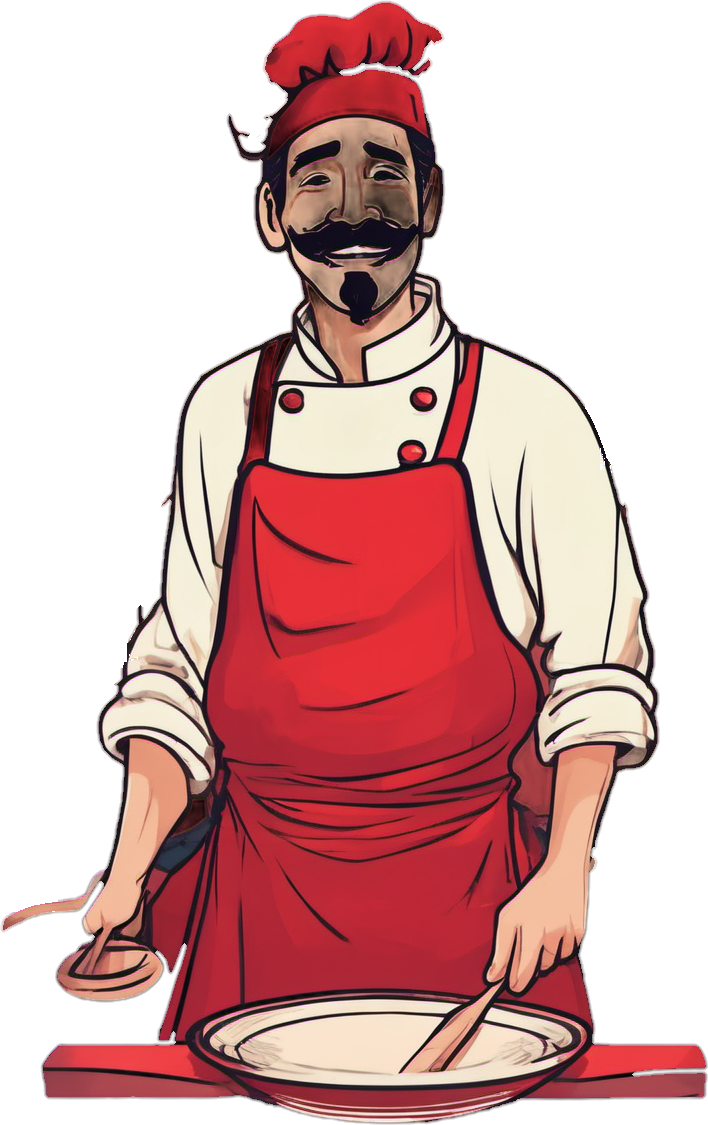
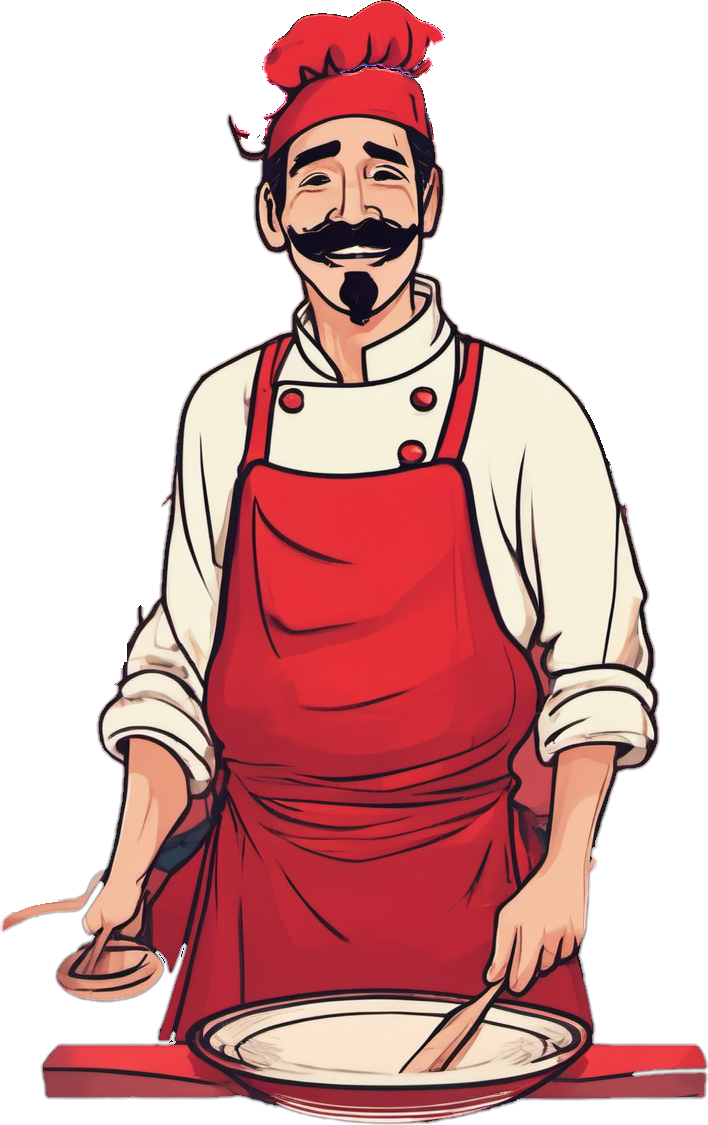
CH_antonio: repair premultiplied alpha (restore RGB from source), fill toque holes/translucency

diff --git a/tools/fix_antonio_rgb.py b/tools/fix_antonio_rgb.py
@@ -1,0 +1,52 @@
+import shutil
+from pathlib import Path
+
+import numpy as np
+from PIL import Image
+
+ASSETS = Path(r"C:\english-quest\assets")
+VERS = ASSETS / "_versions"
+src = ASSETS / "CH_antonio.png"
+shutil.copyfile(src, VERS / "CH_antonio_pre_rgbfix.png")
+
+cur = Image.open(src).convert("RGBA")
+orig = Image.open(VERS / "pre_rembg" / "CH_antonio.png").convert("RGB")
+ca = np.array(cur)
+oa = np.array(orig)
+DX, DY = 44, 60
+
+h, w = ca.shape[:2]
+al = ca[..., 3].astype(np.int32)
+rgb = ca[..., :3].astype(np.float32)
+
+src_rgb = np.zeros_like(rgb)
+sy0, sx0 = DY, DX
+src_rgb[:, :] = oa[sy0:sy0 + h, sx0:sx0 + w].astype(np.float32)
+
+opaque = al >= 250
+rgb[opaque] = src_rgb[opaque]
+
+toque_zone = np.zeros(al.shape, bool)
+toque_zone[0:135, 240:480] = True
+semi = (al > 0) & (al < 255) & toque_zone
+factor = 255.0 / np.maximum(al[semi], 1)
+rgb[semi] = np.clip(rgb[semi] * factor[:, None], 0, 255)
+
+al2 = al.copy()
+tz = (al > 0) & (al < 255) & toque_zone
+al2[tz & (al >= 24)] = 255
+
+out = np.dstack([rgb.clip(0, 255).astype(np.uint8), al2.astype(np.uint8)])
+img = Image.fromarray(out, "RGBA").convert("RGBA")
+img.save(src)
+print("CH_antonio RGB restored from source; size", img.size)
+
+# previews
+comp_dark = Image.new("RGBA", img.size, (20, 20, 24, 255))
+comp_dark.alpha_composite(img)
+comp_dark.convert("RGB").crop((150, 0, 600, 400)).resize((675, 600), Image.LANCZOS).save(
+    r"C:\Users\73B5~1\AppData\Local\Temp\opencode\antonio_dark_head2.png")
+comp_lite = Image.new("RGBA", img.size, (245, 245, 245, 255))
+comp_lite.alpha_composite(img)
+comp_lite.convert("RGB").save(r"C:\Users\73B5~1\AppData\Local\Temp\opencode\antonio_light_full2.png")
+print("previews saved")

diff --git a/tools/fix_antonio_rgb2.py b/tools/fix_antonio_rgb2.py
@@ -1,0 +1,46 @@
+import numpy as np
+from PIL import Image
+from scipy import ndimage
+from pathlib import Path
+
+ASSETS = Path(r"C:\english-quest\assets")
+VERS = ASSETS / "_versions"
+src = ASSETS / "CH_antonio.png"
+
+cur = Image.open(src).convert("RGBA")
+orig = Image.open(VERS / "pre_rembg" / "CH_antonio.png").convert("RGB")
+ca = np.array(cur)
+oa = np.array(orig)
+DX, DY = 44, 60
+h, w = ca.shape[:2]
+al = ca[..., 3].astype(np.int32)
+rgb = ca[..., :3].astype(np.float32)
+src_rgb = oa[DY:DY + h, DX:DX + w].astype(np.float32)
+
+mask = al > 0
+filled = ndimage.binary_fill_holes(mask)
+holes = filled & (al == 0)
+print("holes filled:", int(holes.sum()))
+rgb[holes] = src_rgb[holes]
+al[holes] = 255
+
+zone = np.zeros(al.shape, bool)
+zone[0:140, 235:485] = True
+zsemi = zone & (al > 0) & (al < 255)
+rgb[zsemi] = src_rgb[zsemi]
+al[zsemi & (al >= 8)] = 255
+
+out = np.dstack([rgb.clip(0, 255).astype(np.uint8), al.astype(np.uint8)])
+img = Image.fromarray(out, "RGBA")
+img.save(src)
+print("saved", img.size)
+
+comp_dark = Image.new("RGBA", img.size, (20, 20, 24, 255))
+comp_dark.alpha_composite(img)
+comp_dark.convert("RGB").crop((150, 0, 600, 400)).resize((675, 600), Image.LANCZOS).save(
+    r"C:\Users\73B5~1\AppData\Local\Temp\opencode\antonio_dark_head3.png")
+comp_lite = Image.new("RGBA", img.size, (240, 240, 240, 255))
+comp_lite.alpha_composite(img)
+comp_lite.convert("RGB").resize((354, 562), Image.LANCZOS).save(
+    r"C:\Users\73B5~1\AppData\Local\Temp\opencode\antonio_light_full3.png")
+print("previews saved")

diff --git a/qa_report.md b/qa_report.md
@@ -16,7 +16,7 @@
 
 ## Принятые с примечаниями (учесть при сборке)
 
-- **CH_antonio** — красный фартук исправлен; шляпа красная вместо белой (незначительно). Постобработка: исправлена полупрозрачность лица и верха колпака (интерьер силуэта принудительно непрозрачный), удалены остатки фоновых веток/линий; сбоку у шляпы остался тёмный декоративный «спрай» (сросся с волосами).
+- **CH_antonio** — красный фартук исправлен; шляпа красная вместо белой (незначительно). Постобработка: обнаружен и исправлен дефект премультиплай‑альфы (RGB был умножен на альфу — «чёрные» пятна лица при непрозрачном силуэте); цвета восстановлены из исходного рендера, дыры и полупрозрачность колпака заполнены.
 - **CH_tim** — стиль painterly как у остальных (сид 9109), веснушки, без фуражки; выглядит чуть старше 16 лет — принято. Аниме-версия v3 (сид 9108) лежит в `_versions` как запасная.
 - **UI_case_map** — без красных нитей-пинов (незначительно).
 - **UI_badge_case_closed** — лист 2×2, кропнуть один бейдж.
